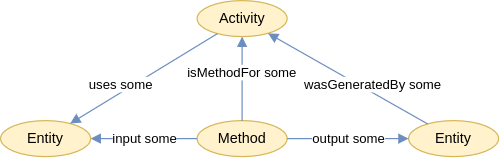
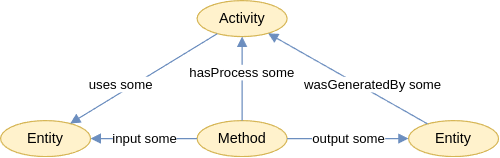
Renamed to hasMethod

Changed region(s): [[0.36, 0.4304, 0.6, 0.5063]]

diff --git a/README.md b/README.md
@@ -171,7 +171,7 @@ In Manchester syntax, this may be expressed as follows
 
     Class: app:MyMethod
         subClassOf: pink:Method
-        subClassOf: pink:isMethodOf some app:MyActivity
+        subClassOf: pink:hasProcess some app:MyActivity
         subClassOf: pink:input some app:MyInput
         subClassOf: pink:output some app:MyOutput
 
@@ -181,7 +181,7 @@ PINK provides tooling (based on [Tripper]) to help providing class-level documen
 This is done the normal way using spreadsheets, but with the `@type` keyword replaced by `subClassOf` (`@type` is implicit and would always be `owl:Class`).
 For example, the above declaration of a computation could provided as follows:
 
-| @id          | subClassOf  | description | isMethodOf     | input       | output       |
+| @id          | subClassOf  | description | hasProcess     | input       | output       |
 |--------------|-------------|-------------|----------------|-------------|--------------|
 | app:MyMethod | pink:Method | ...         | app:MyActivity | app:MyInput | app:MyOutput |
 
